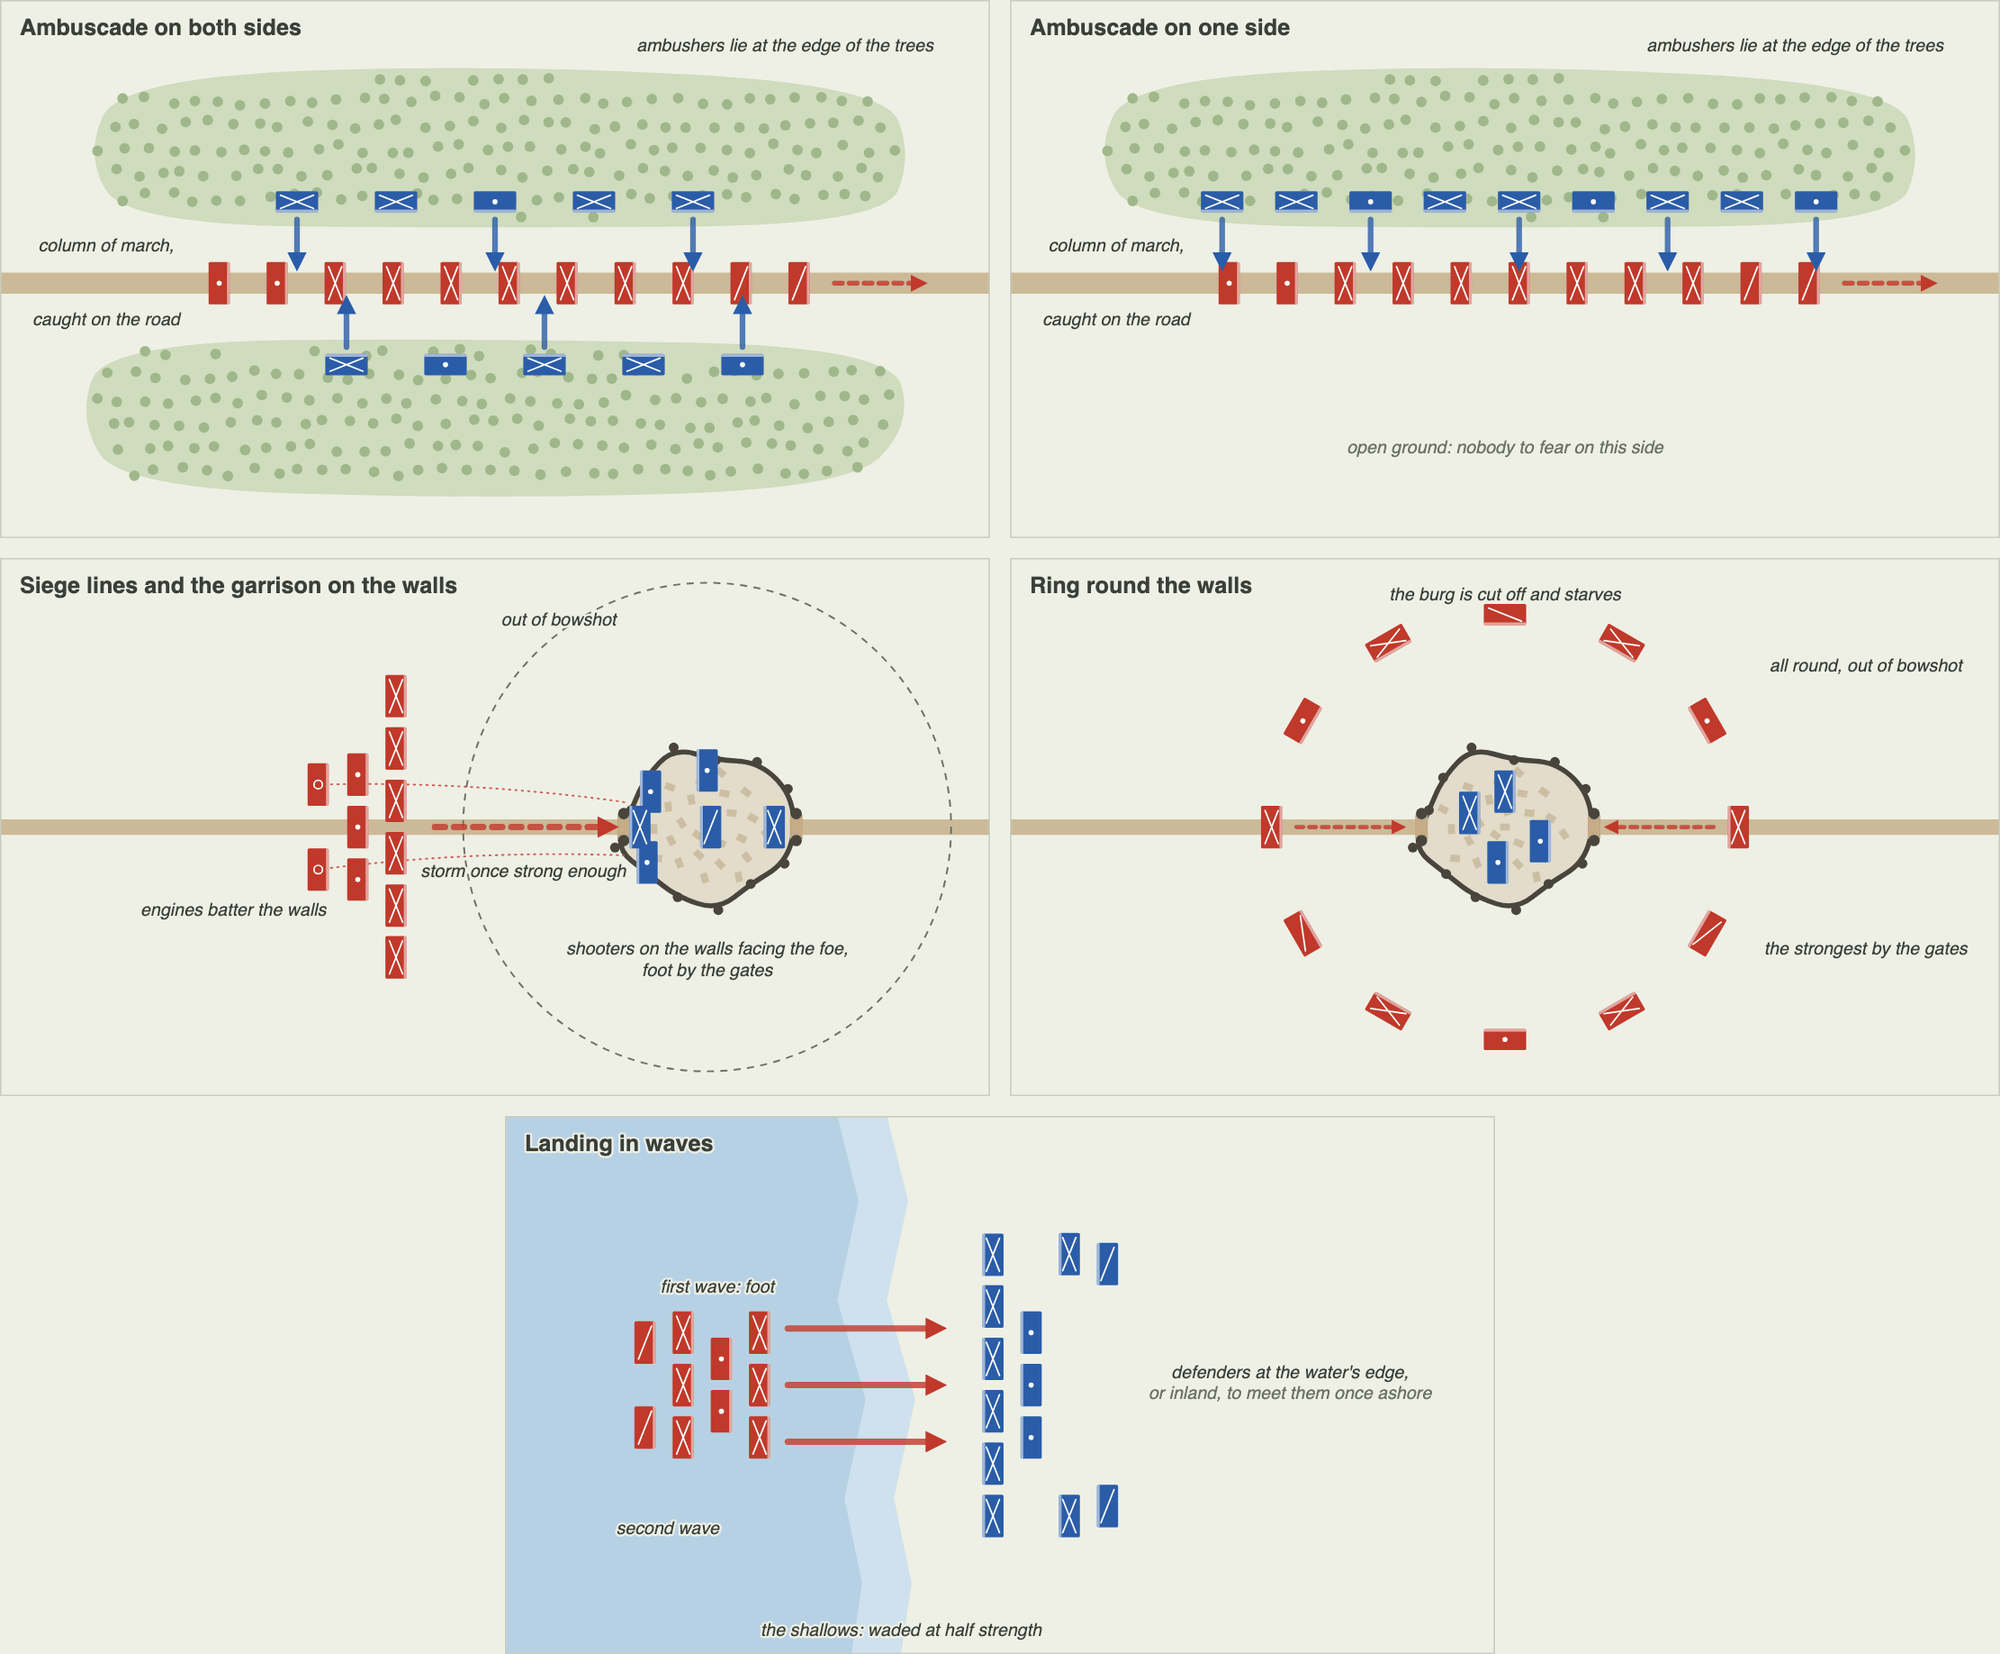
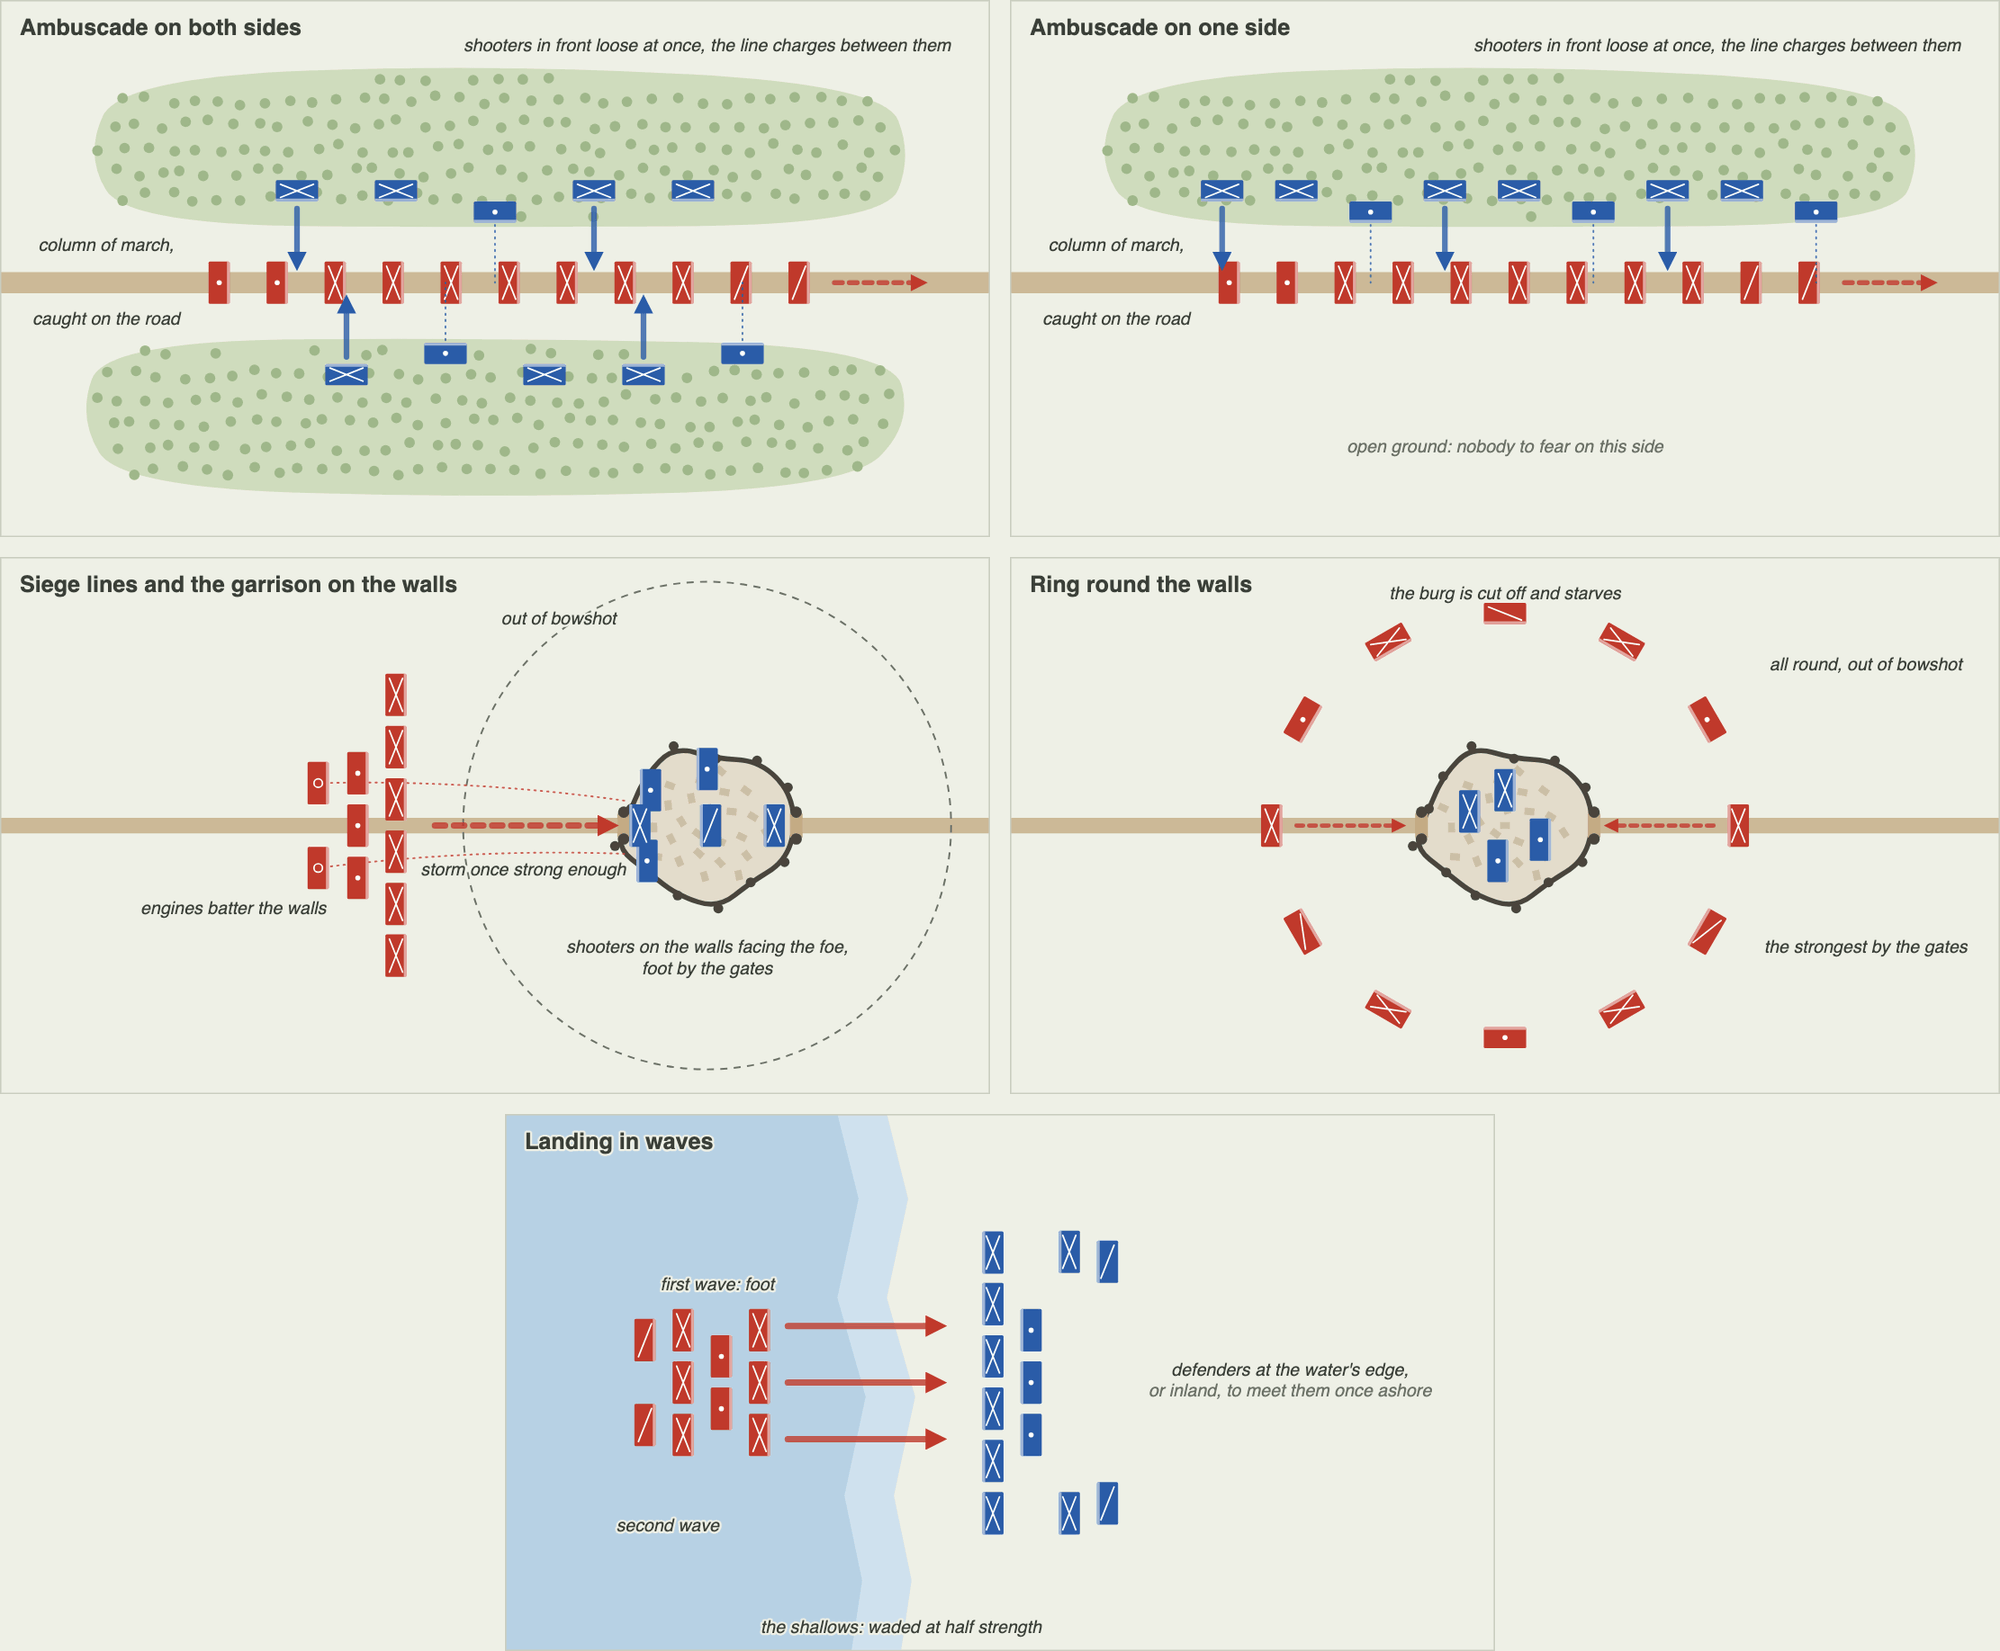
images

diff --git a/docs/updates/v1.159.0/v1.159.0 - Battle Simulation.md b/docs/updates/v1.159.0/v1.159.0 - Battle Simulation.md
@@ -4,7 +4,7 @@ The Battle Simulator was added in v1.4.0, back in 2020. It was basically a table
 
 I wanted battles to look like the plans in a history book, with a field, two armies drawn up on it and arrows showing who went where. So here comes the new Battle Simulator. A battle is now fought on the ground of your map, by battalions that march, shoot, charge and sometimes run away. Each side is led by a general who picks the best tactic and gives the orders. You can just watch, or pause at any moment and take command.
 
-![A field battle at its height: the attackers' oblique attack against a line with refused flanks](screenshots/melee.jpg)
+![The Battle of Sarpereszto at its height: oblique attack against line with refused flanks](screenshots/melee.jpg)
 
 ## The battlefield
 
@@ -22,7 +22,7 @@ There is weather too. Rain, snow and fog shorten how far troops can see and so h
 
 A battle also has an hour. Most battles start by day, about one in five at night, and you can pick the hour before the start by clicking the clock. The plan is lit by the sun of that hour, with the hills casting shadows, a golden light in the morning and evening and a dark blue at night, when every battalion carries torches.
 
-At night, at dusk and in bad weather troops see only so far. In the dark a battalion sees an enemy with torches about 180 m off, one without them 120 m, and less in a wood or a burg. It goes only for the foes it or its friends have seen, a broken enemy that slips out of sight gets away, and nobody shoots further than he can see. The generals plan by it too. Armies form up closer at night, ambushers can lie much closer to the road without being seen, and besiegers who storm in the dark steal up to the walls unlit, so a burg that would be blockaded by day may be stormed at night.
+At night, at dusk and in bad weather troops see only so far. In the dark a battalion sees an enemy with torches about 180 m off, one without them 120 m, and less in a wood or a burg. It goes only for the foes it or its friends have seen, a broken enemy that slips out of sight gets away, and no battalion shoots further than it can see. The generals plan by it too. Armies form up closer at night, ambushers can lie much closer to the road without being seen, and besiegers who storm in the dark steal up to the walls unlit, so a burg that would be blockaded by day may be stormed at night.
 
 ## How a battle goes
 
@@ -43,6 +43,8 @@ Luck is still there, but only in one place. Each side rolls a die once, when the
 ### Units
 
 For all this a single power value per unit was not enough. In the Military units editor each unit now has **attack**, **defense**, **speed**, **range** and **morale**. Power is still there. It is calculated from these values and is used for upkeep and for the forces of a state, as before. Artillery, for example, has a strong attack and a much weaker defense. Levies have half the morale of infantry, so they fight well enough while things go well and are the first to run when they don't.
+
+![The Military units editor with the default units: attack, defense, speed, range and morale, and the power that comes from them](screenshots/units.jpg)
 
 The unit type defines how a unit behaves. Mounted and flying units act as riders, ranged units as shooters, machinery and ships as engines, and the rest fight in the line. The traits can be mixed. Give a mounted unit a range and you get horse archers, who stay on the wings, shoot and ride away when infantry comes at them.
 
@@ -127,7 +129,7 @@ None of this is required. You can start a battle right away and leave it to the 
 
 Click a selected battalion to see the orders it can carry out where it stands: hold, fortify, skirmish, defend, retreat or surrender. A battalion follows your order until it is done, or for about eight minutes of battle time. After that the general takes it back.
 
-![Commanding battalions: the dashed lines show where the picked ones are sent](screenshots/commands.jpg)
+![Taking command: the Buerasians are told to skirmish, the menu lists what a picked battalion can do, and the dashed lines show where the picked ones are sent](screenshots/commands.jpg)
 
 You can also give an order to a whole side. Click its current order next to the name and tell it to hold, fortify, skirmish, attack, defend, pursue, retreat or surrender, as far as the battle type allows. The general follows the order for eight minutes and then decides again. This is the way to make a careful general attack, or to call off a storm that is going badly.
 
@@ -148,7 +150,9 @@ The cog button under the plan opens the options. They are saved in your browser 
 
 The battle ends when one side has no troops left on the field, or when the fighting dies down and nobody falls for eight minutes. A summary then shows who won, the casualties, the captured and the losses of every unit. As before, you don't have to wait for the end and can apply the result at any moment. When you apply it, casualties and captured troops are taken from the regiments and the battle goes to the map's history. Cancel rolls the battle back.
 
-![The summary of a finished battle](screenshots/summary.jpg)
+At Sarpereszto the oblique attack did not break the Penyslian line. Buerasia retreated, having lost 15% of its men to Penyslia's 11%.
+
+![Penyslia holds the field](screenshots/summary.jpg)
 
 Everything that happens is written to the battle log, including every order and change you made.
 
@@ -159,6 +163,8 @@ Before, an applied battle left a line of text in the regiments' notes and a mark
 The Chronicle holds wars, battles, alliances and vassalages, and a few political acts that write themselves down: a province declaring independence, states merged into one, a province given to another state and a capital moved. A war is now one record that both sides share, with every state fighting on each side. It begins when two states are set to `Enemy` and ends when its leaders make peace. Trying relations out leaves no litter: a war begun and dropped right away disappears, and one ended and set again is reopened with its name, note and battles.
 
 A new map starts with a short sample of history: about three past wars for every five states, the wars going on and the vassalages. It has no battles. Those are the ones you play in the Battle Simulator or write yourself.
+
+![The Chronicle of a new map: its sample of wars and vassalages, and at the bottom a battle just applied, inside the war made for it](screenshots/chronicle.jpg)
 
 An applied battle is kept with its place, sides and result, as part of the war its states fight. States that are not at war get a war of that year for it. The map has only a current year, so the battle gets a day of that year, after the war's earlier battles, and the hour it was fought at. You can change the date in its record.
 
